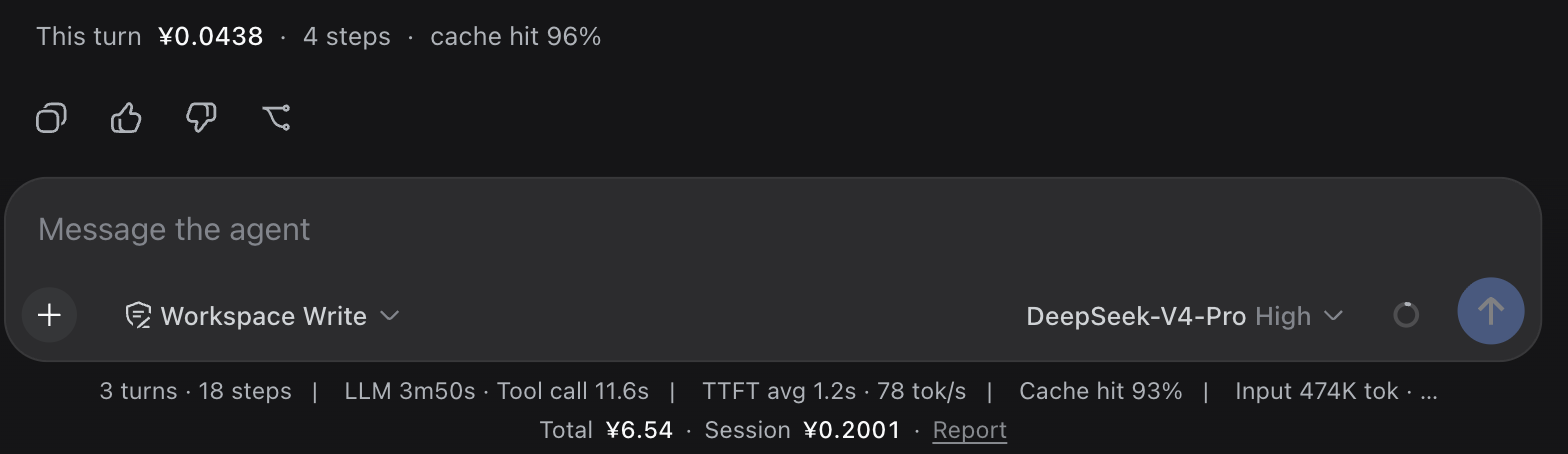
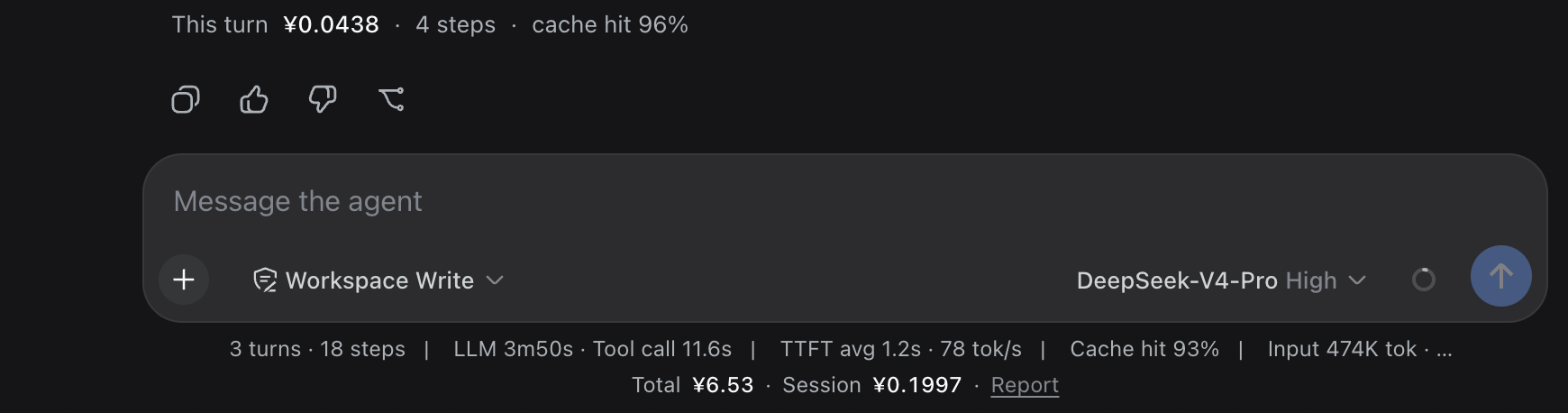
fix(ui): let the report tab inherit Chat's ground
The tab was painting `bg-layer-1` and its own scrollbar variables,
copied from Trajectory. Trajectory is the exception, not the pattern: it
is a dense table pane that earns a surface of its own. Chat's root sets
no background at all, so switching between Chat and Cost flashed two
different colours — the opposite of what copying a neighbour was for.

Follows through on the two surfaces that had been placed against the
wrong ground: the KPI cards drop their fill for the outline-only
treatment the shipped settings cards use, and the heatmap mixes its
tint toward `transparent` rather than toward a named layer, so the
scale composites over whatever is actually behind it.

Screenshots retaken.

diff --git a/lib/client.js b/lib/client.js
@@ -70,8 +70,6 @@ window.__ModuleLoader__.load({
       border: 'var(--dsw-alias-border-l1)',
       border2: 'var(--dsw-alias-border-l2)',
       border3: 'var(--dsw-alias-border-l3)',
-      layer1: 'var(--dsw-alias-bg-layer-1)',
-      layer2: 'var(--dsw-alias-bg-layer-2)',
       base: 'var(--dsw-alias-bg-base)',
       hover: 'var(--dsw-alias-interactive-bg-hover)',
       brand: 'var(--dsw-alias-brand-primary)',
@@ -1094,9 +1092,13 @@ window.__ModuleLoader__.load({
     // 12px/14px padding, and every control on the 28px pill. Emphasis is
     // weight 500 throughout — the design system has no 600 outside markdown
     // headings, and this file used to reach for it a dozen times.
+    // Outline only, no fill — the shipped settings cards are the same. A fill
+    // would have to name a colour relative to a ground this component does not
+    // set, and naming the wrong one is exactly what made the tab flash a
+    // different colour from Chat.
     var card = {
       border: '1px solid ' + T.border2, borderRadius: 12, padding: '12px 14px',
-      background: T.layer1, boxSizing: 'border-box', minWidth: 0,
+      boxSizing: 'border-box', minWidth: 0,
     }
     var cardL = { color: T.label2, marginBottom: 4, ...F.xxsStrong }
     var cardV = { color: T.label, ...N.l }
@@ -1644,12 +1646,16 @@ window.__ModuleLoader__.load({
       // Tinted from the design system's own blue rather than a literal rgba, so
       // the ramp tracks the palette and the empty cell tracks the theme — the
       // hard-coded grey used to sit visibly light on the dark surface.
+      //
+      // Mixed toward `transparent`, not toward a named surface: that yields an
+      // alpha the cell composites over whatever ground it is actually on, so
+      // the scale stays correct without this file naming the ground at all.
       function cellStyle(cell) {
         if (cell.usd <= 0 || maxCell <= 0) return { background: T.hover }
         var pct = (15 + 80 * (cell.usd / maxCell)).toFixed(0)
         return {
           background: 'color-mix(in srgb, var(--dsw-static-blue-450, rgb(77,147,248)) '
-            + pct + '%, ' + T.layer1 + ')',
+            + pct + '%, transparent)',
         }
       }
       function cellTitle(cell) {
@@ -1882,10 +1888,12 @@ window.__ModuleLoader__.load({
      * fluid block usable in both seats.
      */
     function BillView(props) {
-      // `bg-layer-1` and the scrollbar variables are what the shipped
-      // Trajectory tab sets on its own root; a tab that leaves them unset shows
-      // the shell's base colour and the browser's default scrollbar, which is
-      // visible the moment you switch between the two.
+      // No background, no colour, no scrollbar variables: Chat's own root sets
+      // none of them either, so inheriting is what puts this tab on the same
+      // ground as the tab beside it. Trajectory does lift itself to
+      // `bg-layer-1`, but that is a dense table pane earning a surface of its
+      // own — copying it here just made switching tabs flash a different
+      // colour, which is the opposite of the point.
       //
       // The composer floats OVER the view area, so a tab that does not reserve
       // room for it simply loses its last screenful — the footnote and the
@@ -1897,9 +1905,6 @@ window.__ModuleLoader__.load({
           height: '100%', overflowY: 'auto', minWidth: 0,
           paddingBottom: 'calc(var(--dsh-composer-height, 152px) + 16px)',
           boxSizing: 'border-box',
-          background: T.layer1, color: T.label,
-          '--dsh-scrollbar-thumb': 'var(--dsw-alias-scrollbar-bg-l2)',
-          '--dsh-scrollbar-thumb-hover': 'var(--dsw-alias-scrollbar-hover-l2)',
         },
       }, el(Dashboard, props))
     }
